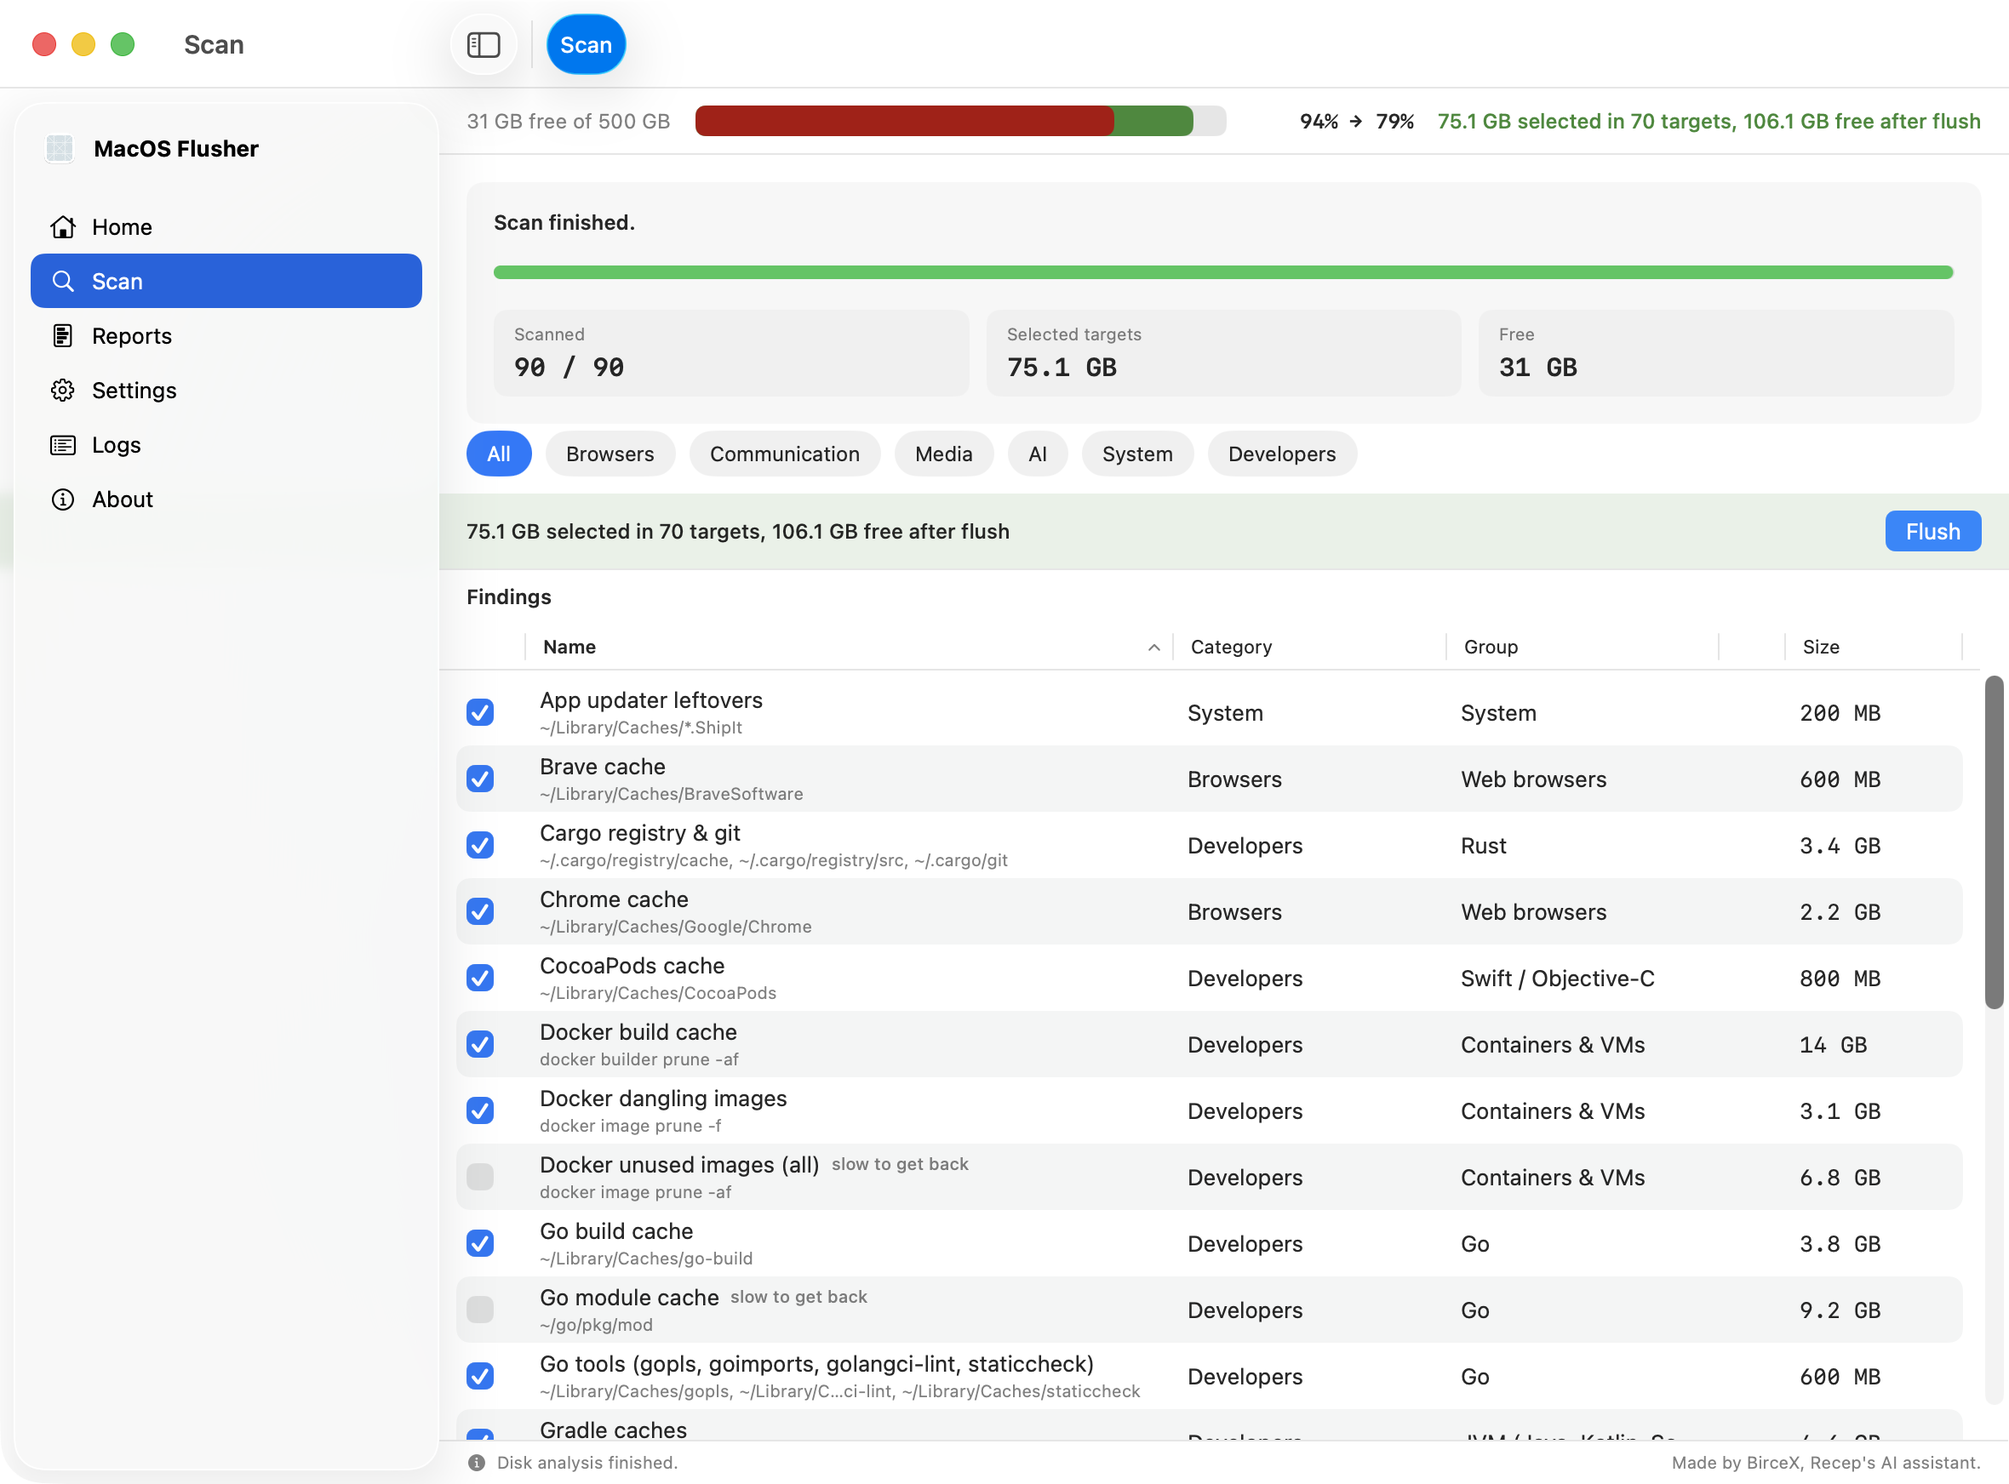
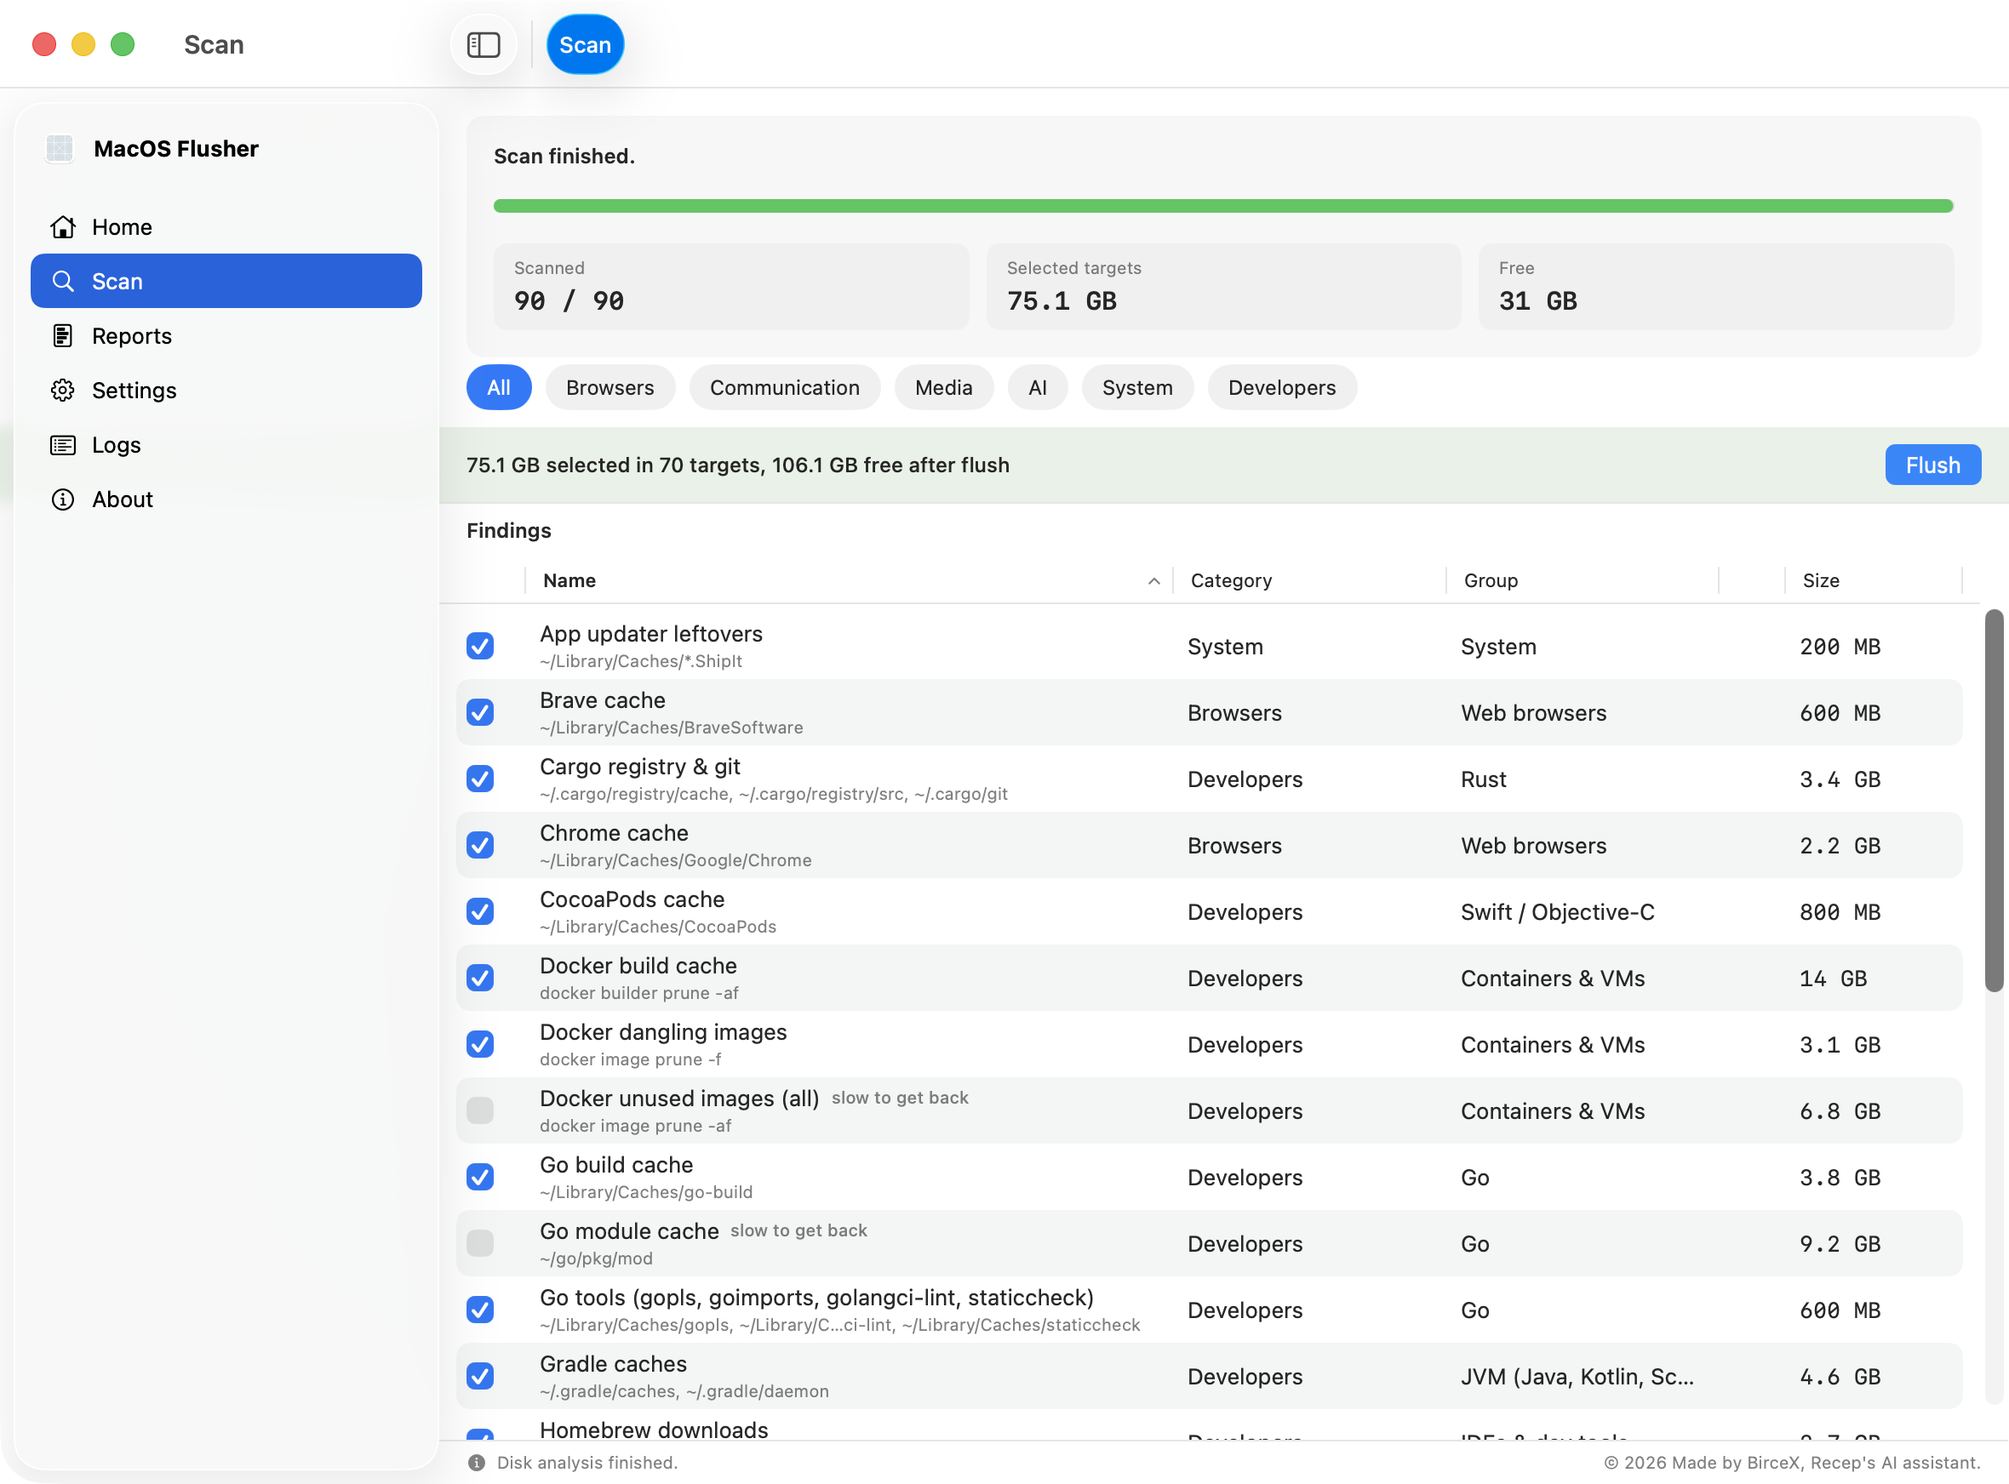
Docs, community files and website SEO

diff --git a/docs/index.html b/docs/index.html
@@ -6,12 +6,43 @@
 <title>MacOS Flusher: get your disk space back</title>
 <meta name="description" content="A free, open source Mac app for developers. It finds the caches that package managers, build tools, Docker and IDEs leave behind, shows what fills your disk and deletes what you choose.">
 <meta name="color-scheme" content="light">
+<meta name="robots" content="index, follow">
+<link rel="canonical" href="https://bircex.github.io/macos-flusher/">
 <meta property="og:type" content="website">
 <meta property="og:title" content="MacOS Flusher: get your disk space back">
 <meta property="og:description" content="Find and delete developer caches on your Mac, and see what is filling the disk.">
 <meta property="og:image" content="https://bircex.github.io/macos-flusher/assets/shots/main-light.png">
+<meta property="og:url" content="https://bircex.github.io/macos-flusher/">
+<meta name="twitter:card" content="summary_large_image">
+<meta name="twitter:title" content="MacOS Flusher: get your disk space back">
+<meta name="twitter:description" content="Find and delete developer caches on your Mac, and see what is filling the disk.">
+<meta name="twitter:image" content="https://bircex.github.io/macos-flusher/assets/shots/main-light.png">
 <link rel="icon" type="image/png" href="assets/icon.png">
+<link rel="apple-touch-icon" href="assets/apple-touch-icon.png">
 <link rel="stylesheet" href="assets/style.css">
+<script type="application/ld+json">
+{
+  "@context": "https://schema.org",
+  "@type": "SoftwareApplication",
+  "name": "MacOS Flusher",
+  "description": "A free, open source Mac app for developers. It finds the caches that package managers, build tools, Docker and IDEs leave behind, shows what fills your disk and deletes what you choose.",
+  "applicationCategory": "DeveloperApplication",
+  "operatingSystem": "macOS 13+",
+  "offers": {
+    "@type": "Offer",
+    "price": "0",
+    "priceCurrency": "USD"
+  },
+  "downloadUrl": "https://github.com/bircex/macos-flusher/releases/latest/download/MacOS-Flusher.dmg",
+  "image": "https://bircex.github.io/macos-flusher/assets/shots/main-light.png",
+  "url": "https://bircex.github.io/macos-flusher/",
+  "license": "https://github.com/bircex/macos-flusher/blob/main/LICENSE",
+  "author": {
+    "@type": "Person",
+    "name": "Recep Kızılarslan"
+  }
+}
+</script>
 </head>
 <body>
 <a class="skip" href="#main">Skip to content</a>
@@ -36,7 +67,10 @@
 
 <div class="hero" id="top">
   <div class="container">
-    <h1>MacOS Flusher</h1>
+    <div class="hero-brand">
+      <img src="assets/icon.png" width="64" height="64" alt="MacOS Flusher logo, a hand-drawn witch's broom" class="hero-mark">
+      <h1>MacOS Flusher</h1>
+    </div>
     <p class="tagline"><strong>Get your disk space back.</strong> A small Mac app that finds the caches your developer tools leave behind, shows what fills the disk and deletes what you choose.</p>
     <div class="actions">
       <a class="button" href="https://github.com/bircex/macos-flusher/releases/latest/download/MacOS-Flusher.dmg">
@@ -83,7 +117,7 @@
 <div class="showcase">
   <div class="container">
     <div class="shot lifted">
-      <img src="assets/shots/main-light.png" width="2360" height="1744" alt="Main window with the sidebar, the disk line, the scan progress and the findings table">
+      <img src="assets/shots/main-light.png" width="2360" height="1744" alt="Main window with the sidebar, the scan progress panel and the findings table">
     </div>
   </div>
 </div>
@@ -102,7 +136,7 @@
         </div>
         <div class="item">
           <h3>Measure first, delete second</h3>
-          <p>Every cache is measured before anything is removed. The disk bar shows how full the disk is now and after the flush.</p>
+          <p>Every cache is measured before anything is removed. The Scan page shows how many targets were scanned and how much is selected.</p>
         </div>
         <div class="item">
           <h3>See what fills the disk</h3>
@@ -136,10 +170,10 @@
         <div>
           <p class="kicker">01</p>
           <h3>Scan</h3>
-          <p>The app measures every target as soon as it opens. The line at the top shows the free space now and what it will be after the flush.</p>
+          <p>The app measures every target as soon as it opens. Scan shows a status line, a progress bar, and how much is scanned, selected and free.</p>
         </div>
         <div class="shot">
-          <img src="assets/shots/overview-light.png" width="2360" height="300" loading="lazy" alt="Toolbar with Scan and Flush selected, and the disk line below it">
+          <img src="assets/shots/overview-light.png" width="2360" height="300" loading="lazy" alt="Scan page status line and progress bar after a finished scan">
         </div>
       </div>
       <div class="step wide">
@@ -149,12 +183,12 @@
           <p>Open Scan, tick the targets you want to delete, sort any column or filter by category. Reports shows where the space is and how much of it you have selected.</p>
           <ul class="list">
             <li>Select or clear a whole group at once</li>
-            <li>The disk line shows the change before you make it</li>
-            <li>Hover a bar to see the exact sizes</li>
+            <li>A Flush bar shows the change before you make it</li>
+            <li>Hover a row to see the exact folders</li>
           </ul>
         </div>
         <div class="shot">
-          <img src="assets/shots/reports-overview-light.png" width="2360" height="1744" loading="lazy" alt="Reports Overview page with the disk donut, the summary cards and the ten largest targets">
+          <img src="assets/shots/main-light.png" width="2360" height="1744" loading="lazy" alt="Scan page with category filters and the sortable findings table">
         </div>
       </div>
       <div class="step wide">

diff --git a/docs/assets/style.css b/docs/assets/style.css
@@ -205,6 +205,17 @@ code {
   padding: 112px 0 72px;
 }
 
+.hero-brand {
+  display: flex;
+  align-items: center;
+  gap: 20px;
+}
+
+.hero-mark {
+  border-radius: 14px;
+  flex: none;
+}
+
 .hero h1 {
   font-size: clamp(52px, 9vw, 104px);
   font-weight: 700;
@@ -819,6 +830,11 @@ footer a:hover {
 
   .hero {
     padding: 72px 0 52px;
+  }
+
+  .hero-mark {
+    width: 44px;
+    height: 44px;
   }
 
   .showcase {

diff --git a/README.md b/README.md
@@ -1,8 +1,20 @@
-# MacOS Flusher
+<p align="center">
+  <img src="docs/assets/icon.png" width="120" height="120" alt="MacOS Flusher logo, a hand-drawn witch's broom">
+</p>
 
-A small native macOS app that finds and deletes developer caches: package manager and build caches for most programming languages, Docker leftovers, IDE and tool caches, app updater leftovers.
+<h1 align="center">MacOS Flusher</h1>
 
-Pick the targets, see how much each one takes, press Flush. The disk line shows how full the disk is now and how much will be free after the flush. The Home page in the app explains the three steps.
+<p align="center">
+  A small native macOS app that finds and deletes developer caches: package manager and build caches for most programming languages, Docker leftovers, IDE and tool caches, app updater leftovers.
+</p>
+
+<p align="center">
+  <a href="https://bircex.github.io/macos-flusher/">Website</a> ·
+  <a href="https://github.com/bircex/macos-flusher/releases/latest">Latest release</a> ·
+  <a href="https://github.com/bircex/macos-flusher/issues">Report a problem</a>
+</p>
+
+The full picture, screenshots and the list of what it cleans are on the [website](https://bircex.github.io/macos-flusher/). This file covers installing and building from source.
 
 ## Install
 
@@ -29,69 +41,13 @@ Versions follow calendar versioning, `YYYY.M.PATCH`, for example `2026.9.0`. The
 
 ## What it covers
 
-### Browsers
+Ten categories — Browsers, Communication, Office and documents, Media, Design and photo, Games, AI, System, Developers, and your own targets — ninety built-in targets today, most of them in Developers. The full list, with exact folders and commands, is on the website's [What it cleans](https://bircex.github.io/macos-flusher/#targets) section.
 
-- Web browsers: Chrome, Brave, Edge
-
-### Communication
-
-- Chat and meetings: Slack
-
-### Office and documents
-
-More targets are coming in a future release.
-
-### Media
-
-- Music and video: Spotify
-
-### Design and photo
-
-More targets are coming in a future release.
-
-### Games
-
-More targets are coming in a future release.
-
-### AI
-
-- Downloaded models: Hugging Face, PyTorch hub, Ollama
-
-### System
-
-- App updater leftovers, user logs, Trash
-
-### Developers
-
-- JavaScript: npm, Yarn, pnpm, Bun, Deno, Corepack, nvm, node-gyp, Electron, Turborepo
-- Python: pip, uv, Poetry, Pipenv, pipx, Conda, Ruff, pre-commit
-- Go: build cache, module cache, gopls / goimports / golangci-lint / staticcheck
-- Rust: Cargo registry and git, rustup downloads, sccache
-- JVM: Gradle, Maven, Coursier / sbt / Ivy, Kotlin, Android, Bazel
-- .NET: NuGet packages and HTTP cache
-- Swift / Objective-C: Xcode DerivedData, iOS DeviceSupport, Simulator, Swift PM, CocoaPods, Carthage
-- Ruby, PHP, Perl, Lua: RubyGems / Bundler, Composer, CPAN, LuaRocks
-- Elixir, Erlang, Haskell, OCaml: Hex / Mix, rebar3, Cabal, Stack, opam
-- C / C++: ccache, Conan, vcpkg
-- Dart / Flutter, Zig, Nim, Julia, R, Crystal, D
-- Containers and VMs: Docker build cache, dangling and unused images, anonymous volumes, stopped containers, Podman, minikube, Vagrant, Lima / Colima
-- IDEs and tools: Homebrew, JetBrains, VS Code, Cursor, Playwright, Cypress, Puppeteer, Terraform, Pulumi, Helm, AWS CLI, Claude Code, Codex
-
-Targets whose tool is not installed are greyed out. Two kinds of targets are off by default and labelled in the list:
-
-- slow to get back: Go module cache, Maven, NuGet packages, downloaded models, unused Docker images
-- deleted for good: Trash, user logs, stopped containers
-
-Named Docker volumes are never removed.
+Targets whose tool is not installed are greyed out. Targets that are slow to rebuild or that delete data for good start unticked. Named Docker volumes are never removed.
 
 ## My targets
 
-Press Add target to add a folder or a command of your own. Built-in targets cannot be edited or deleted; what you add is extra and is kept in `~/Library/Application Support/MacOS Flusher/targets.json`.
-
-- Folders are inside your home folder, at least two levels deep, inside `Library` three. No wildcards.
-- A command runs in zsh exactly as written and replaces the emptying of the folders.
-- Your targets start unselected and are labelled "deleted for good".
-- You confirm a responsibility text when you add a target and when you change its folders or command.
+Press Add target to add a folder or a command of your own. Built-in targets cannot be edited or deleted; what you add is extra and is kept in `~/Library/Application Support/MacOS Flusher/targets.json`. Details are on the website's [My targets](https://bircex.github.io/macos-flusher/#mine) section.
 
 ## Languages
 
@@ -102,6 +58,10 @@ English, German, Spanish, French, Portuguese (Brazil), Russian, Turkish, Azerbai
 Sizes come from `du` for directories and from the tool's own reporting for Docker. Deleting is either removing the directory contents or running the tool's own cleanup command (`go clean -cache`, `npm cache clean`, `docker builder prune`, `brew cleanup`). All work runs off the main thread; the UI never blocks and a scan or flush can be stopped.
 
 Adding a built-in target is one line in `Sources/MacOSFlusher/Targets.swift`, plus its entry on the website. The `id` of a target is stored in the files of users, so it never changes. The app icon is generated by `make icon` from `Tools/make-icon.swift`.
+
+## Contributing
+
+See [CONTRIBUTING.md](CONTRIBUTING.md). Found a security issue? See [SECURITY.md](SECURITY.md) instead of opening a public issue.
 
 ## License
 

diff --git a/CONTRIBUTING.md b/CONTRIBUTING.md
@@ -1,0 +1,37 @@
+# Contributing
+
+Thanks for looking at the code. A few things that make a pull request easy to merge.
+
+## Build and test
+
+Needs Xcode Command Line Tools, no full Xcode required.
+
+```
+make test       # swift test, with Swift Testing's framework paths added
+make run        # builds and opens the app without installing it
+```
+
+Keep `make test` green before opening a pull request.
+
+## Adding a built-in target
+
+A target is one entry in `Sources/MacOSFlusher/Targets.swift`: an id that never changes once shipped, a name, the folder(s) it removes or the command it runs, and a risk (`rebuilds`, `redownload`, or `data`).
+
+Before opening a pull request for a new target, have two things ready, since they go in the description:
+
+1. A primary source: the tool's own documentation, or its own cache-clearing command/flag.
+2. A live observation: the folder grows with use, the app works the same after it is removed, and the tool rebuilds or redownloads it without Full Disk Access.
+
+Update the website's "What it cleans" section (`docs/index.html`) in the same pull request; the group and target counts there are checked by a test.
+
+## Translations
+
+The app's strings live in `Sources/MacOSFlusher/Resources/<code>.lproj/Localizable.strings`, one file per language, the English sentence as the key. `make test` checks that every language has the same keys and placeholders as English. Corrections to a translation, including a wrong word or a wrong direction for a right-to-left language, are welcome as an issue or a pull request.
+
+## Style
+
+Short, plain commit messages and pull request descriptions. No filler, no restating the diff in prose. Follow the structure already in the file you are editing rather than introducing a new pattern.
+
+## Reporting a problem that is not a security issue
+
+Open an [issue](https://github.com/bircex/macos-flusher/issues). For a security issue, see [SECURITY.md](SECURITY.md) instead.

diff --git a/SECURITY.md b/SECURITY.md
@@ -1,0 +1,31 @@
+# Security Policy
+
+MacOS Flusher deletes files and runs shell commands on the machine it is installed on. A bug that makes it delete, read or run something it should not is a security issue, not just a regular bug.
+
+## Supported versions
+
+Only the latest release is supported. Versions are calendar-based (`YYYY.M.PATCH`); there are no long-term maintenance branches.
+
+## Reporting a vulnerability
+
+Please do not open a public issue for a security problem. Instead, use [GitHub Security Advisories](https://github.com/bircex/macos-flusher/security/advisories/new) for this repository, or open an issue and mark it clearly as sensitive so it can be moved to a private channel.
+
+Include, where possible:
+
+- The exact target or flow involved (a built-in target's id, or "My targets" with your folder/command).
+- What you expected to happen and what actually happened.
+- Whether the issue could delete, expose or run something outside what the app shows in its list before you confirm.
+
+## What is in scope
+
+- A built-in or custom target deleting outside the folder it claims to touch.
+- A target's "own cleanup command" running something other than what is shown.
+- Anything that bypasses the responsibility confirmation for a custom target, or the delete confirmation dialog.
+- Path handling bugs (symlinks, `..`, globs) that let a target escape its intended folder.
+
+## What is out of scope
+
+- The app not being notarized yet; Gatekeeper's own warning is expected until that changes.
+- A target correctly deleting a cache that a user did not expect to lose data from; the responsibility text and the per-target risk labels (`slow to get back`, `deleted for good`) exist for exactly this.
+
+The app makes no network requests and sends no data anywhere, so account, server or data-exfiltration reports do not apply here.

diff --git a/CODE_OF_CONDUCT.md b/CODE_OF_CONDUCT.md
@@ -1,0 +1,9 @@
+# Code of Conduct
+
+This is a small open source project. The expectation is simple: be respectful in issues, pull requests and discussions. Disagree with the code, not the person.
+
+Not acceptable: harassment, insults, discriminatory language or jokes, or publishing someone else's private information.
+
+If someone is not following this, report it by opening an issue addressed to the maintainer, or, if it is sensitive, through a [private security advisory](https://github.com/bircex/macos-flusher/security/advisories/new). Reports are handled by the project maintainer, who may edit, remove or lock content, or block a contributor, as needed.
+
+This is written in the spirit of the [Contributor Covenant](https://www.contributor-covenant.org/) without reproducing its full text.
